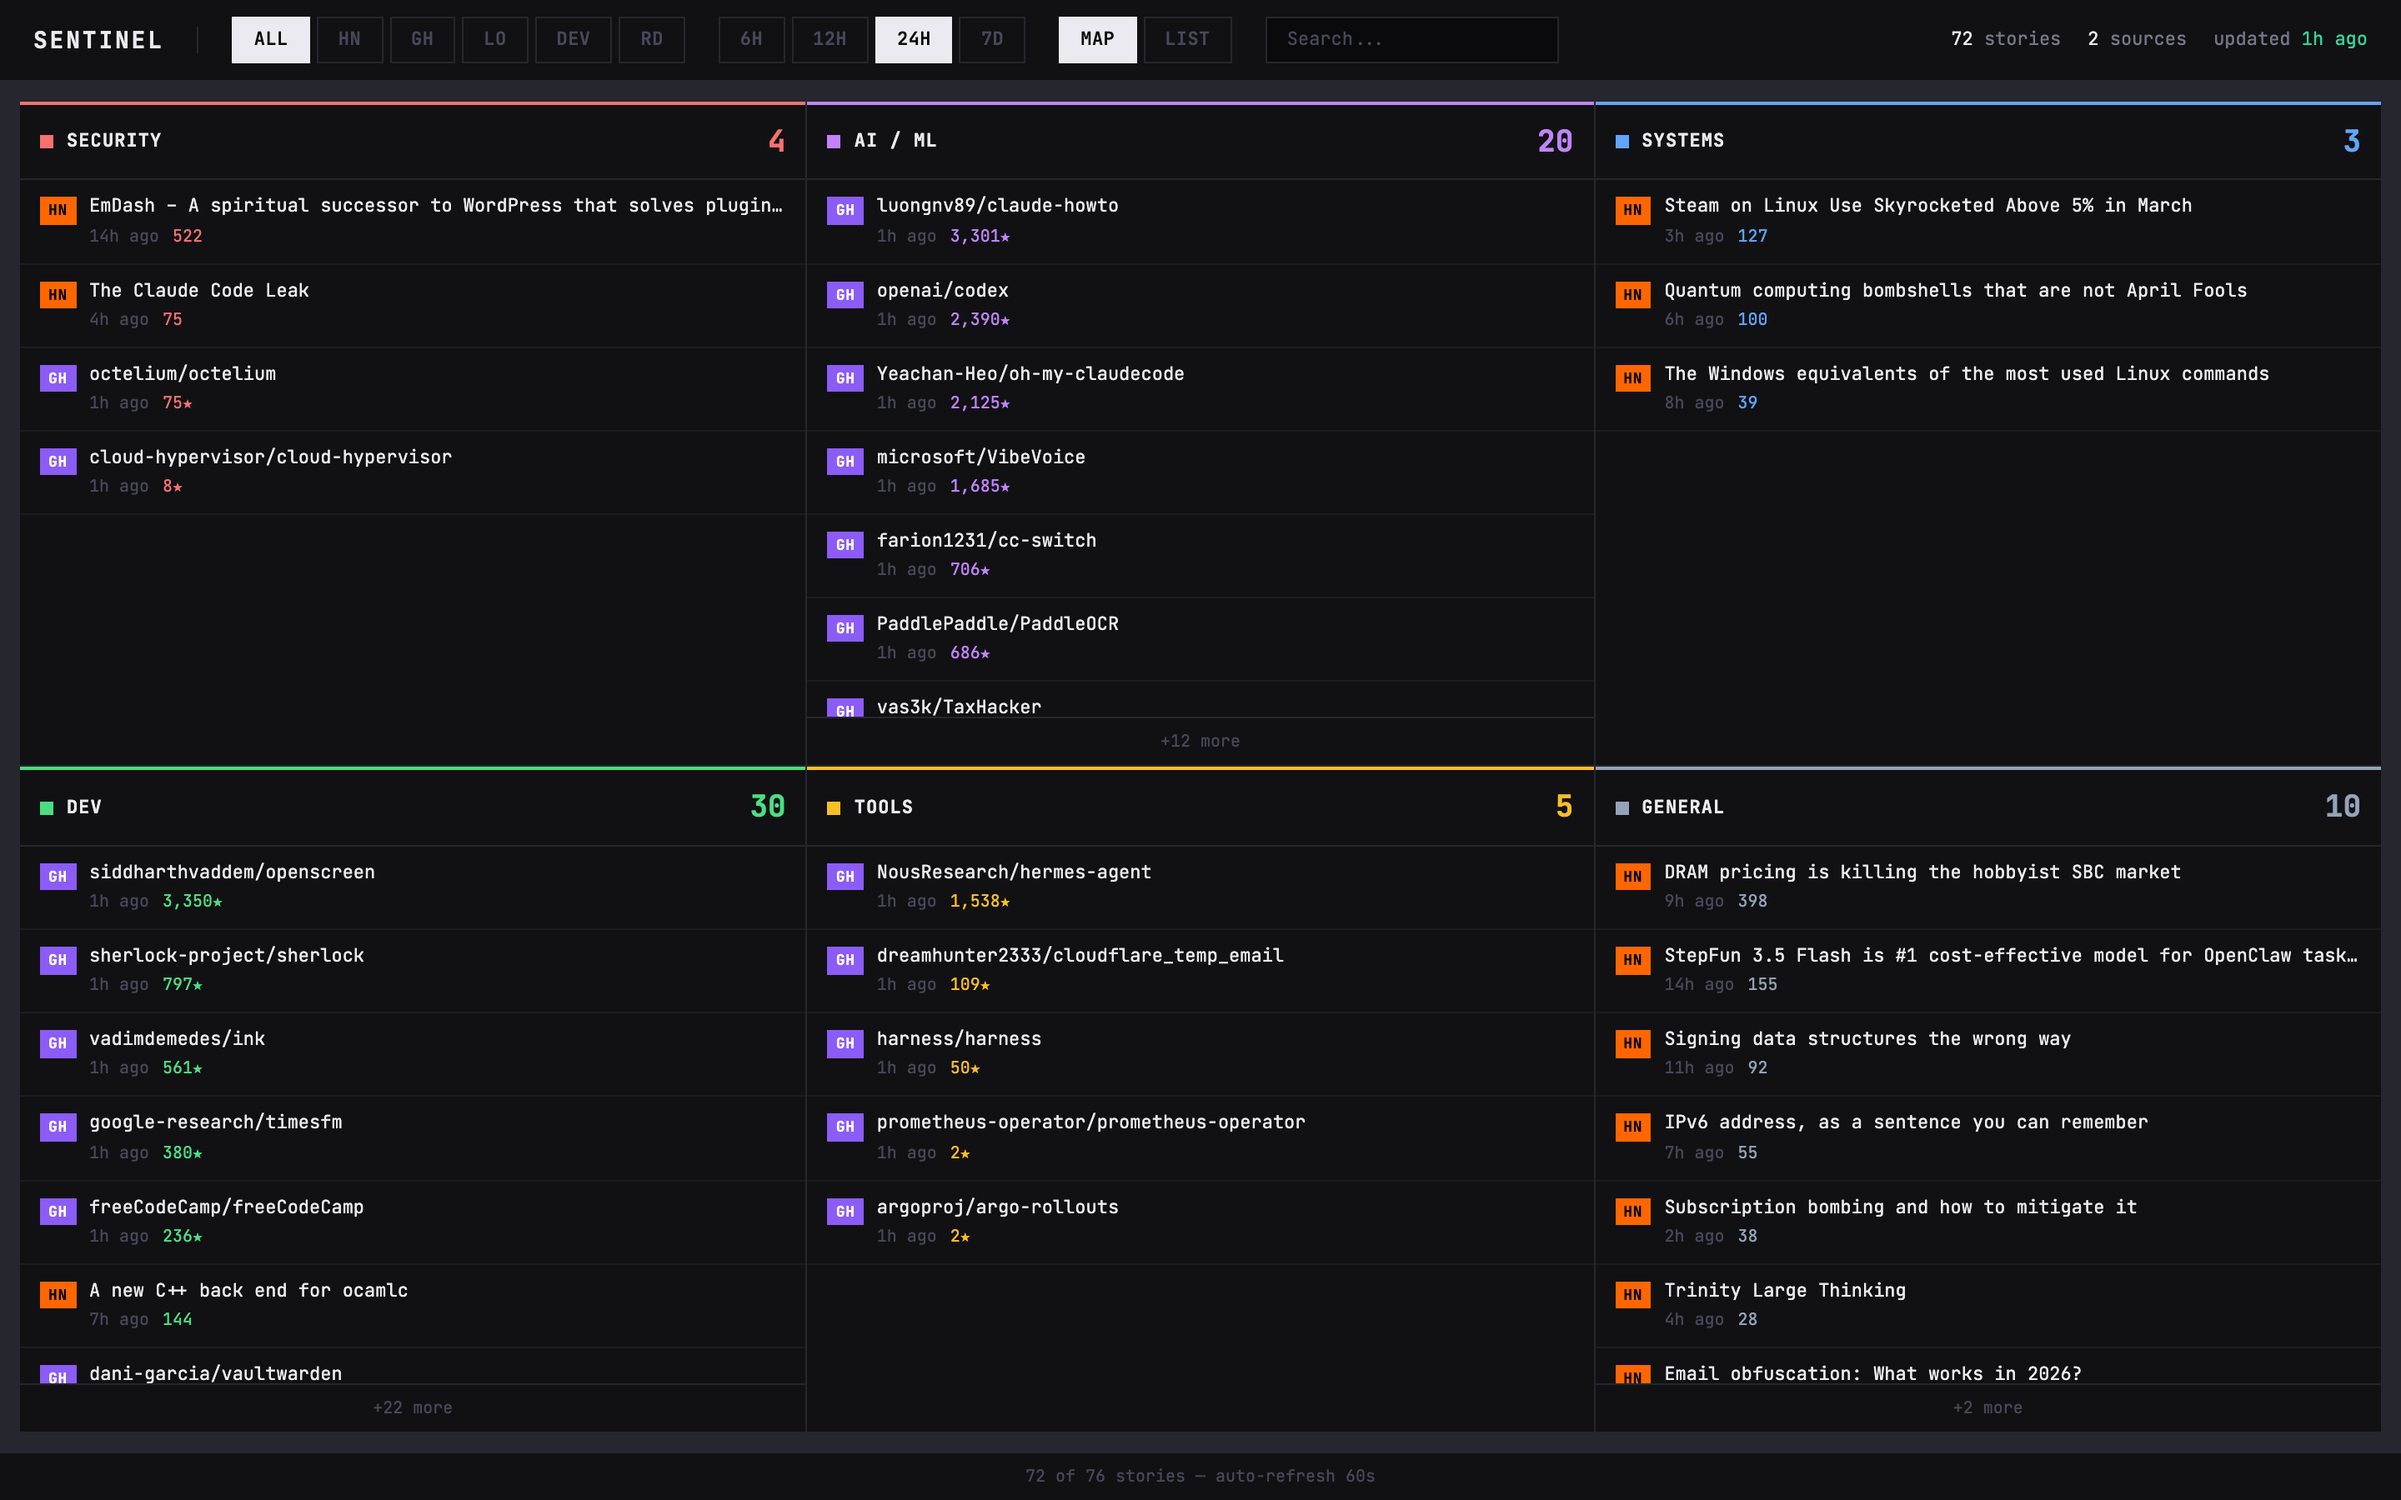
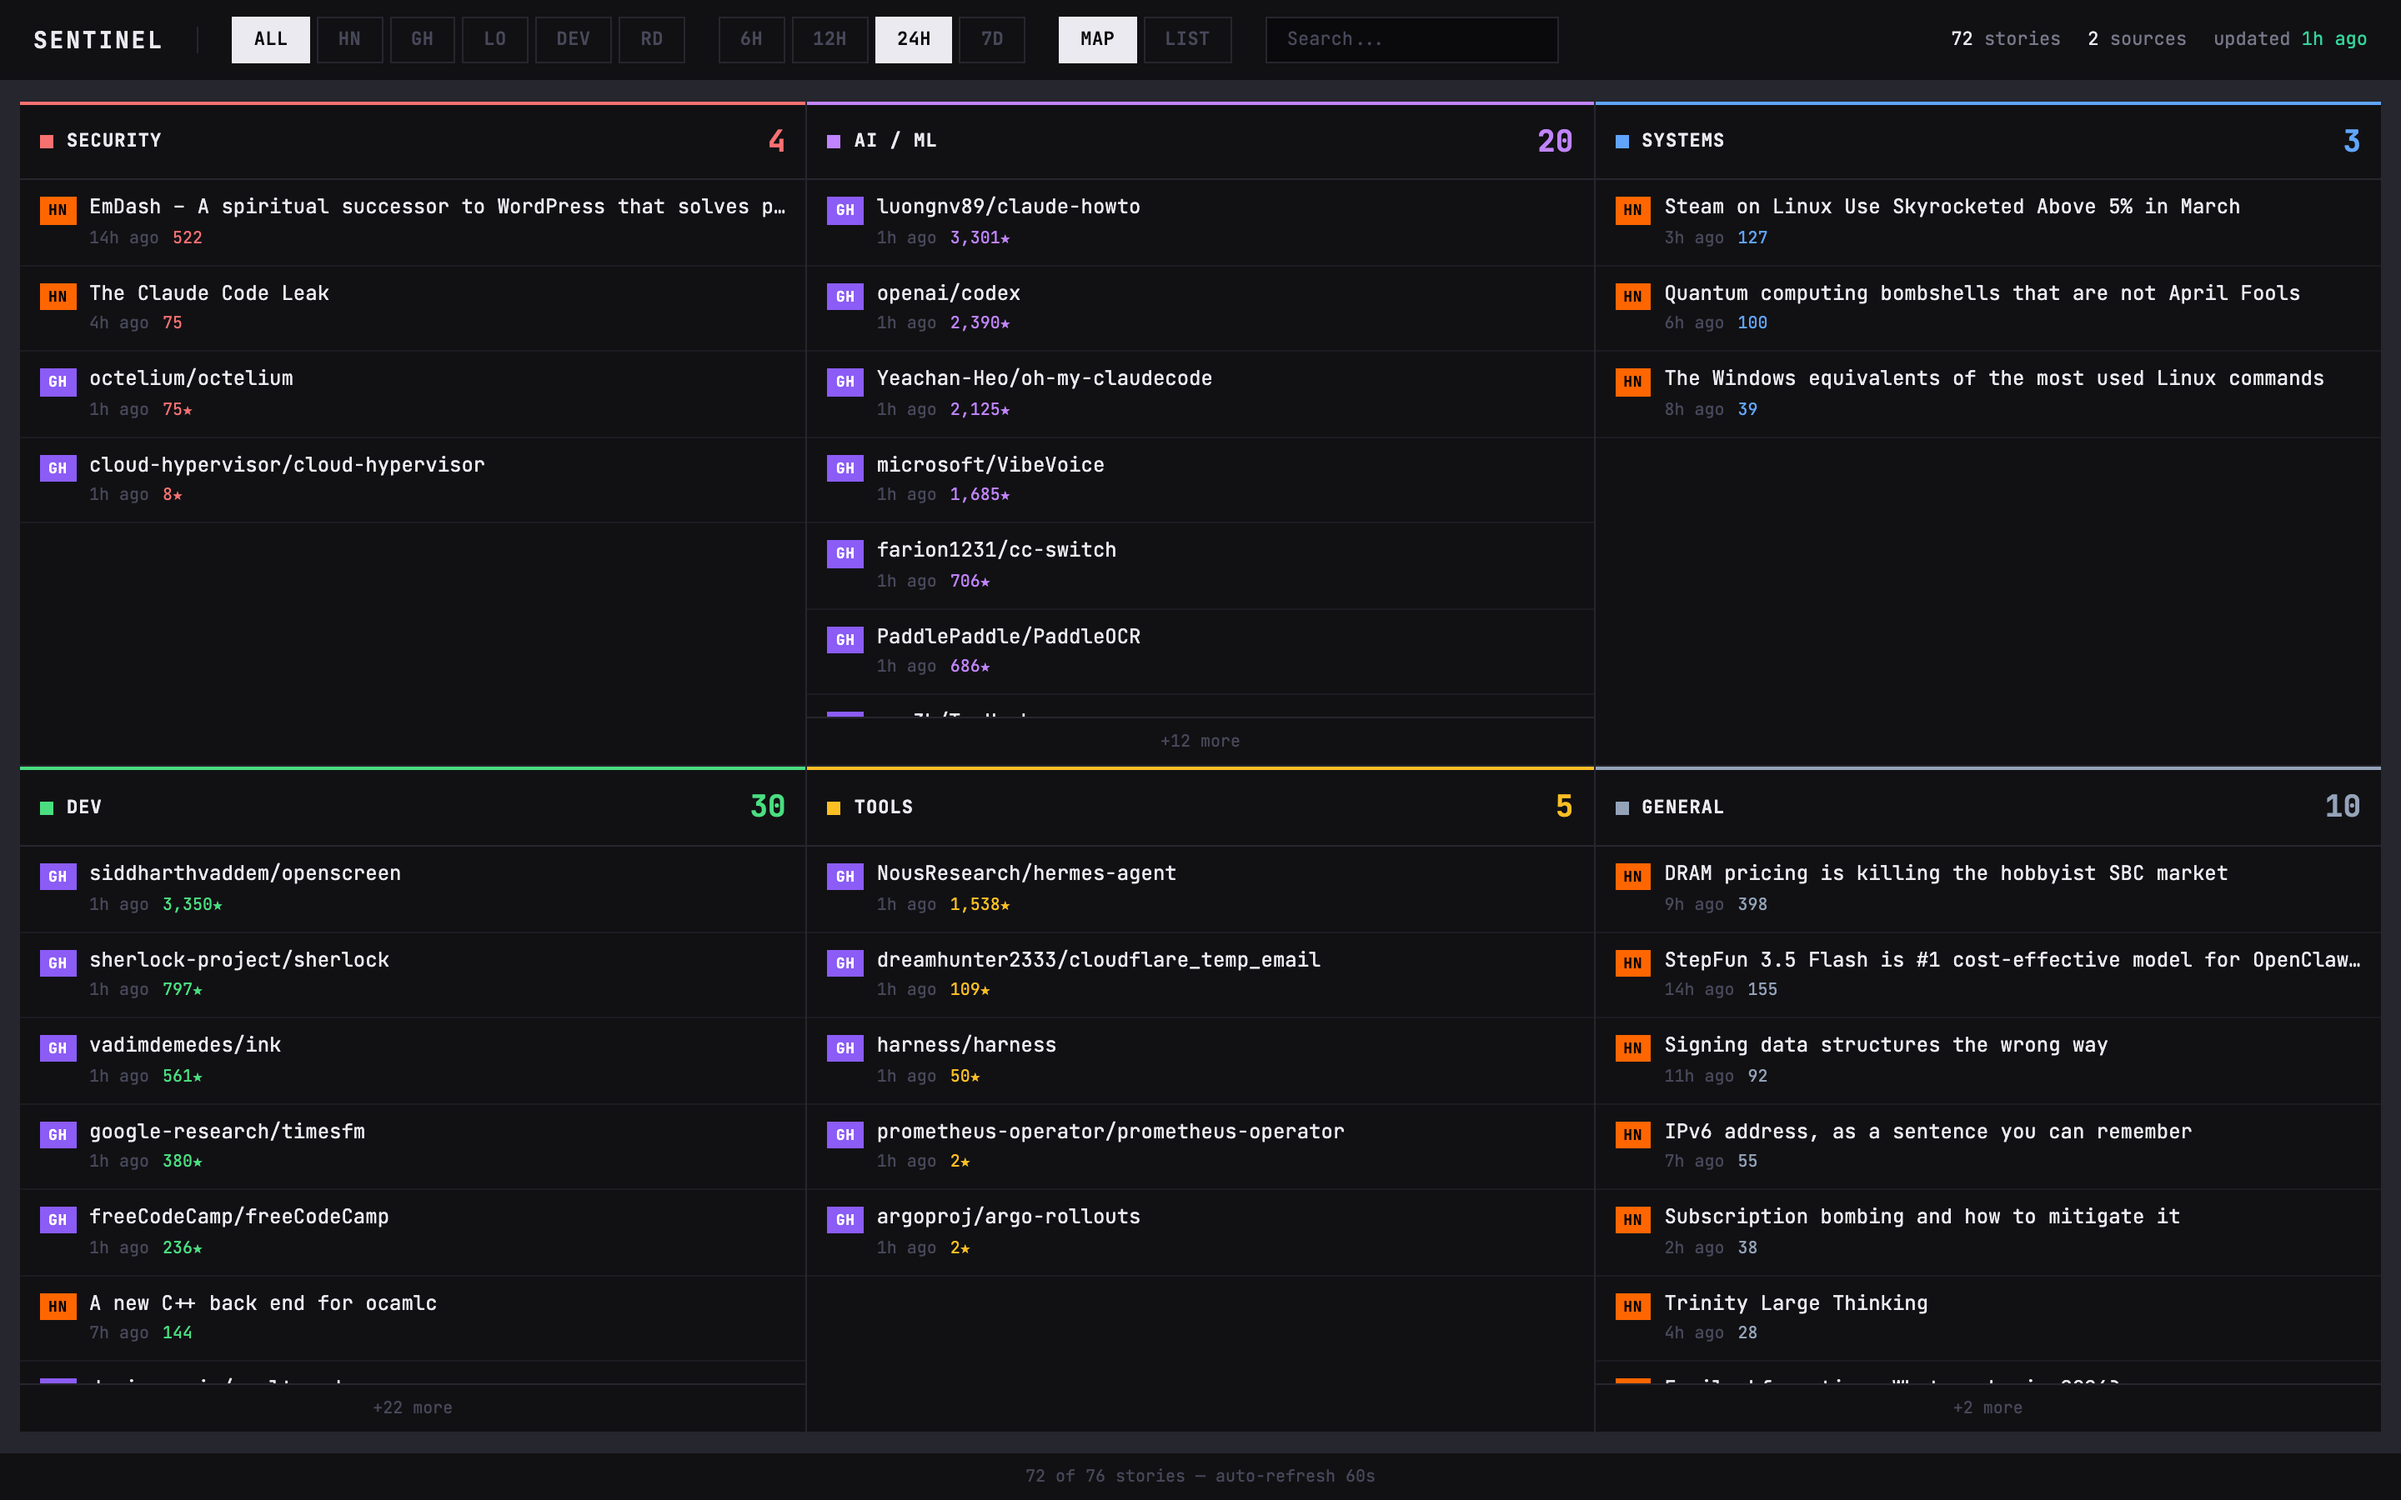
docs: update screenshots and links for sentinel-feed.pastelero.ph
Retake screenshots from custom domain, add live demo badge.

diff --git a/README.md b/README.md
@@ -9,6 +9,7 @@
 [![License](https://img.shields.io/badge/License-Apache_2.0-blue.svg)](LICENSE)
 [![TypeScript](https://img.shields.io/badge/TypeScript-5.x-3178C6)](https://www.typescriptlang.org)
 [![Next.js](https://img.shields.io/badge/Next.js-16-000)](https://nextjs.org)
+[![Live Demo](https://img.shields.io/badge/Live-sentinel--feed.pastelero.ph-34d399)](https://sentinel-feed.pastelero.ph)
 [![Deploy with Vercel](https://vercel.com/button)](https://vercel.com/new/clone?repository-url=https%3A%2F%2Fgithub.com%2FCyvid7-Darus10%2Fsentinel-feed)
 
 <br />
